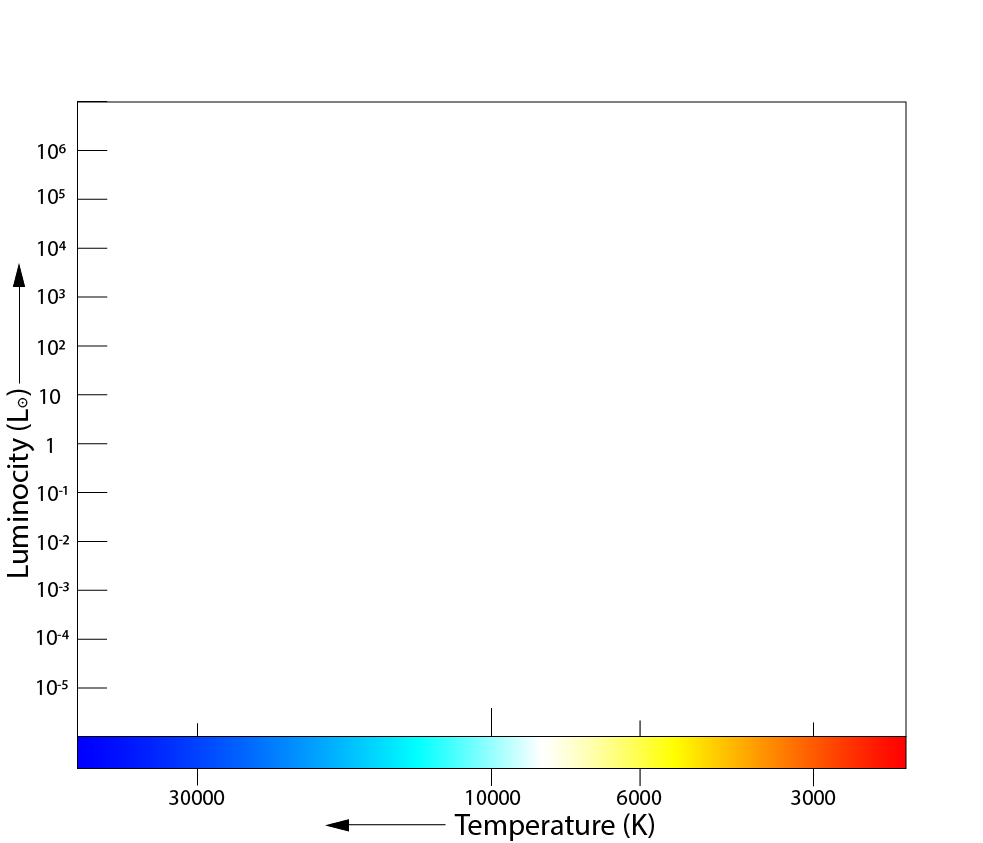
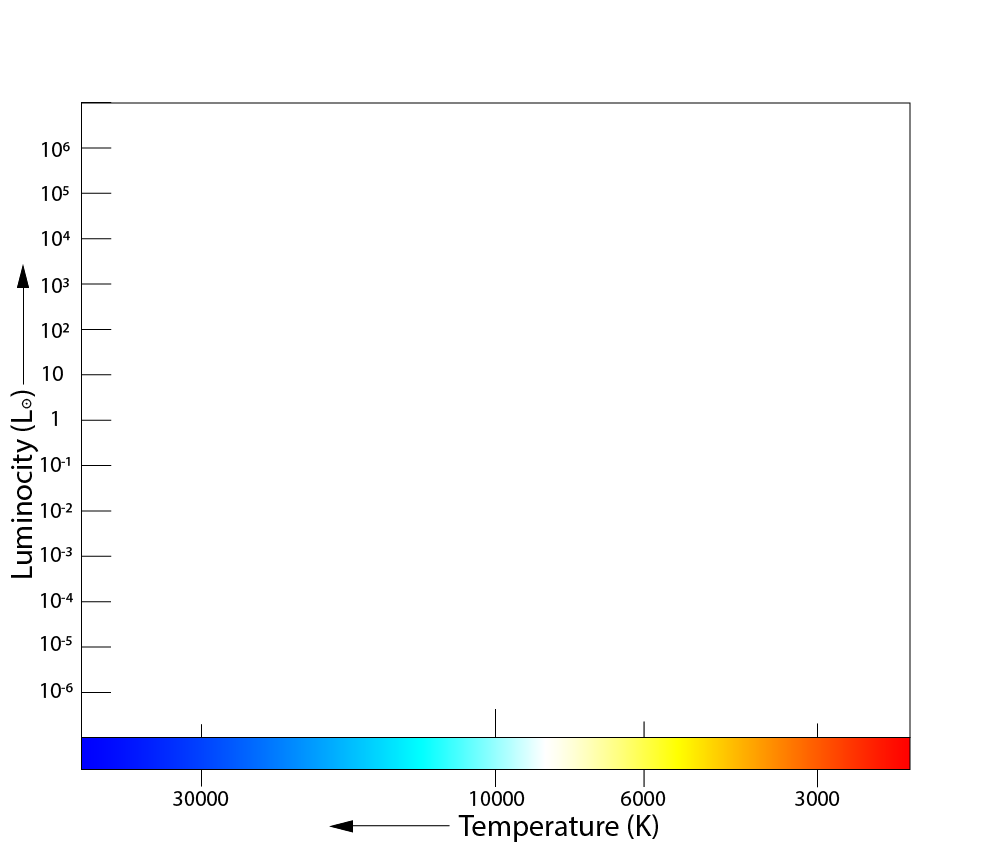
Fixed hr diagram

diff --git a/src/components/HRdiagram/HRDiagram.js b/src/components/HRdiagram/HRDiagram.js
@@ -28,13 +28,13 @@ export class HRDiagram extends React.Component {
 
     getYByLuminosity(val) {
         return 100 -
-            (50 + Math.log10(val)*10)
+            (Math.log10(val)*10)
     }
 
 
     getXByTemperature(val) {
-        return 169-
-            ( + Math.log10(val)*27.5)
+        return 100 -
+            (50 + Math.log10(val)*10)
     }
 
     componentWillReceiveProps(nextProps) {
@@ -92,13 +92,13 @@ export class HRDiagram extends React.Component {
         return (
             // const
             <div className={styles.HRDiagramWrapper}>
-                <div>Hertzsprung–Russell Diagram</div>
+                <div className={styles.hrheader}>Hertzsprung–Russell Diagram</div>
                 <div className={styles.HRDiagram}>
                     <div className={styles.point}
-                         style={{top: this.state.pointY + "%", left: this.state.pointX + "%"}}/>
+                         style={{top: "calc("+this.state.pointY + "% - 0.25rem)", left: "calc("+this.state.pointX + "% - 0.25rem)"}}/>
                          <div></div>
                 </div>
-                {/*<div>lol</div>*/}
+                <div className={styles.hrfooter}></div>
 
             </div>);
 

diff --git a/src/components/Main/Main.js b/src/components/Main/Main.js
@@ -20,7 +20,7 @@ export class Main extends React.Component {
             ],
             properties: {
                 luminosity: 1,
-                temperature: 100000,
+                temperature: 1,
                 stage: "Main Sequence",
                 age: 0
             },
@@ -30,7 +30,7 @@ export class Main extends React.Component {
         //     structure: [{
         //         matter: "H",
         //         color: [255, 50, 0],
-        //         size: "20rem"
+        //         size: "25rem"
         //     }, {
         //         matter: "He",
         //         color: [255, 234, 100],

diff --git a/src/components/HRdiagram/HRDiagram.module.scss b/src/components/HRdiagram/HRDiagram.module.scss
@@ -9,7 +9,7 @@
   //width: 100%;
   //height: 100%;
   flex-direction: column;
-  justify-content: space-around;
+  justify-content: space-between;
   align-items: center;
   align-content: space-around;
   border: solid 0.2rem #00ccff;
@@ -81,4 +81,11 @@
   top:0;
   left:0;
   transition: 1s;
+}
+//$hrtextheight
+.hrheader{
+  height: 1rem;
+}
+.hrfooter{
+  height: 1rem;
 }
